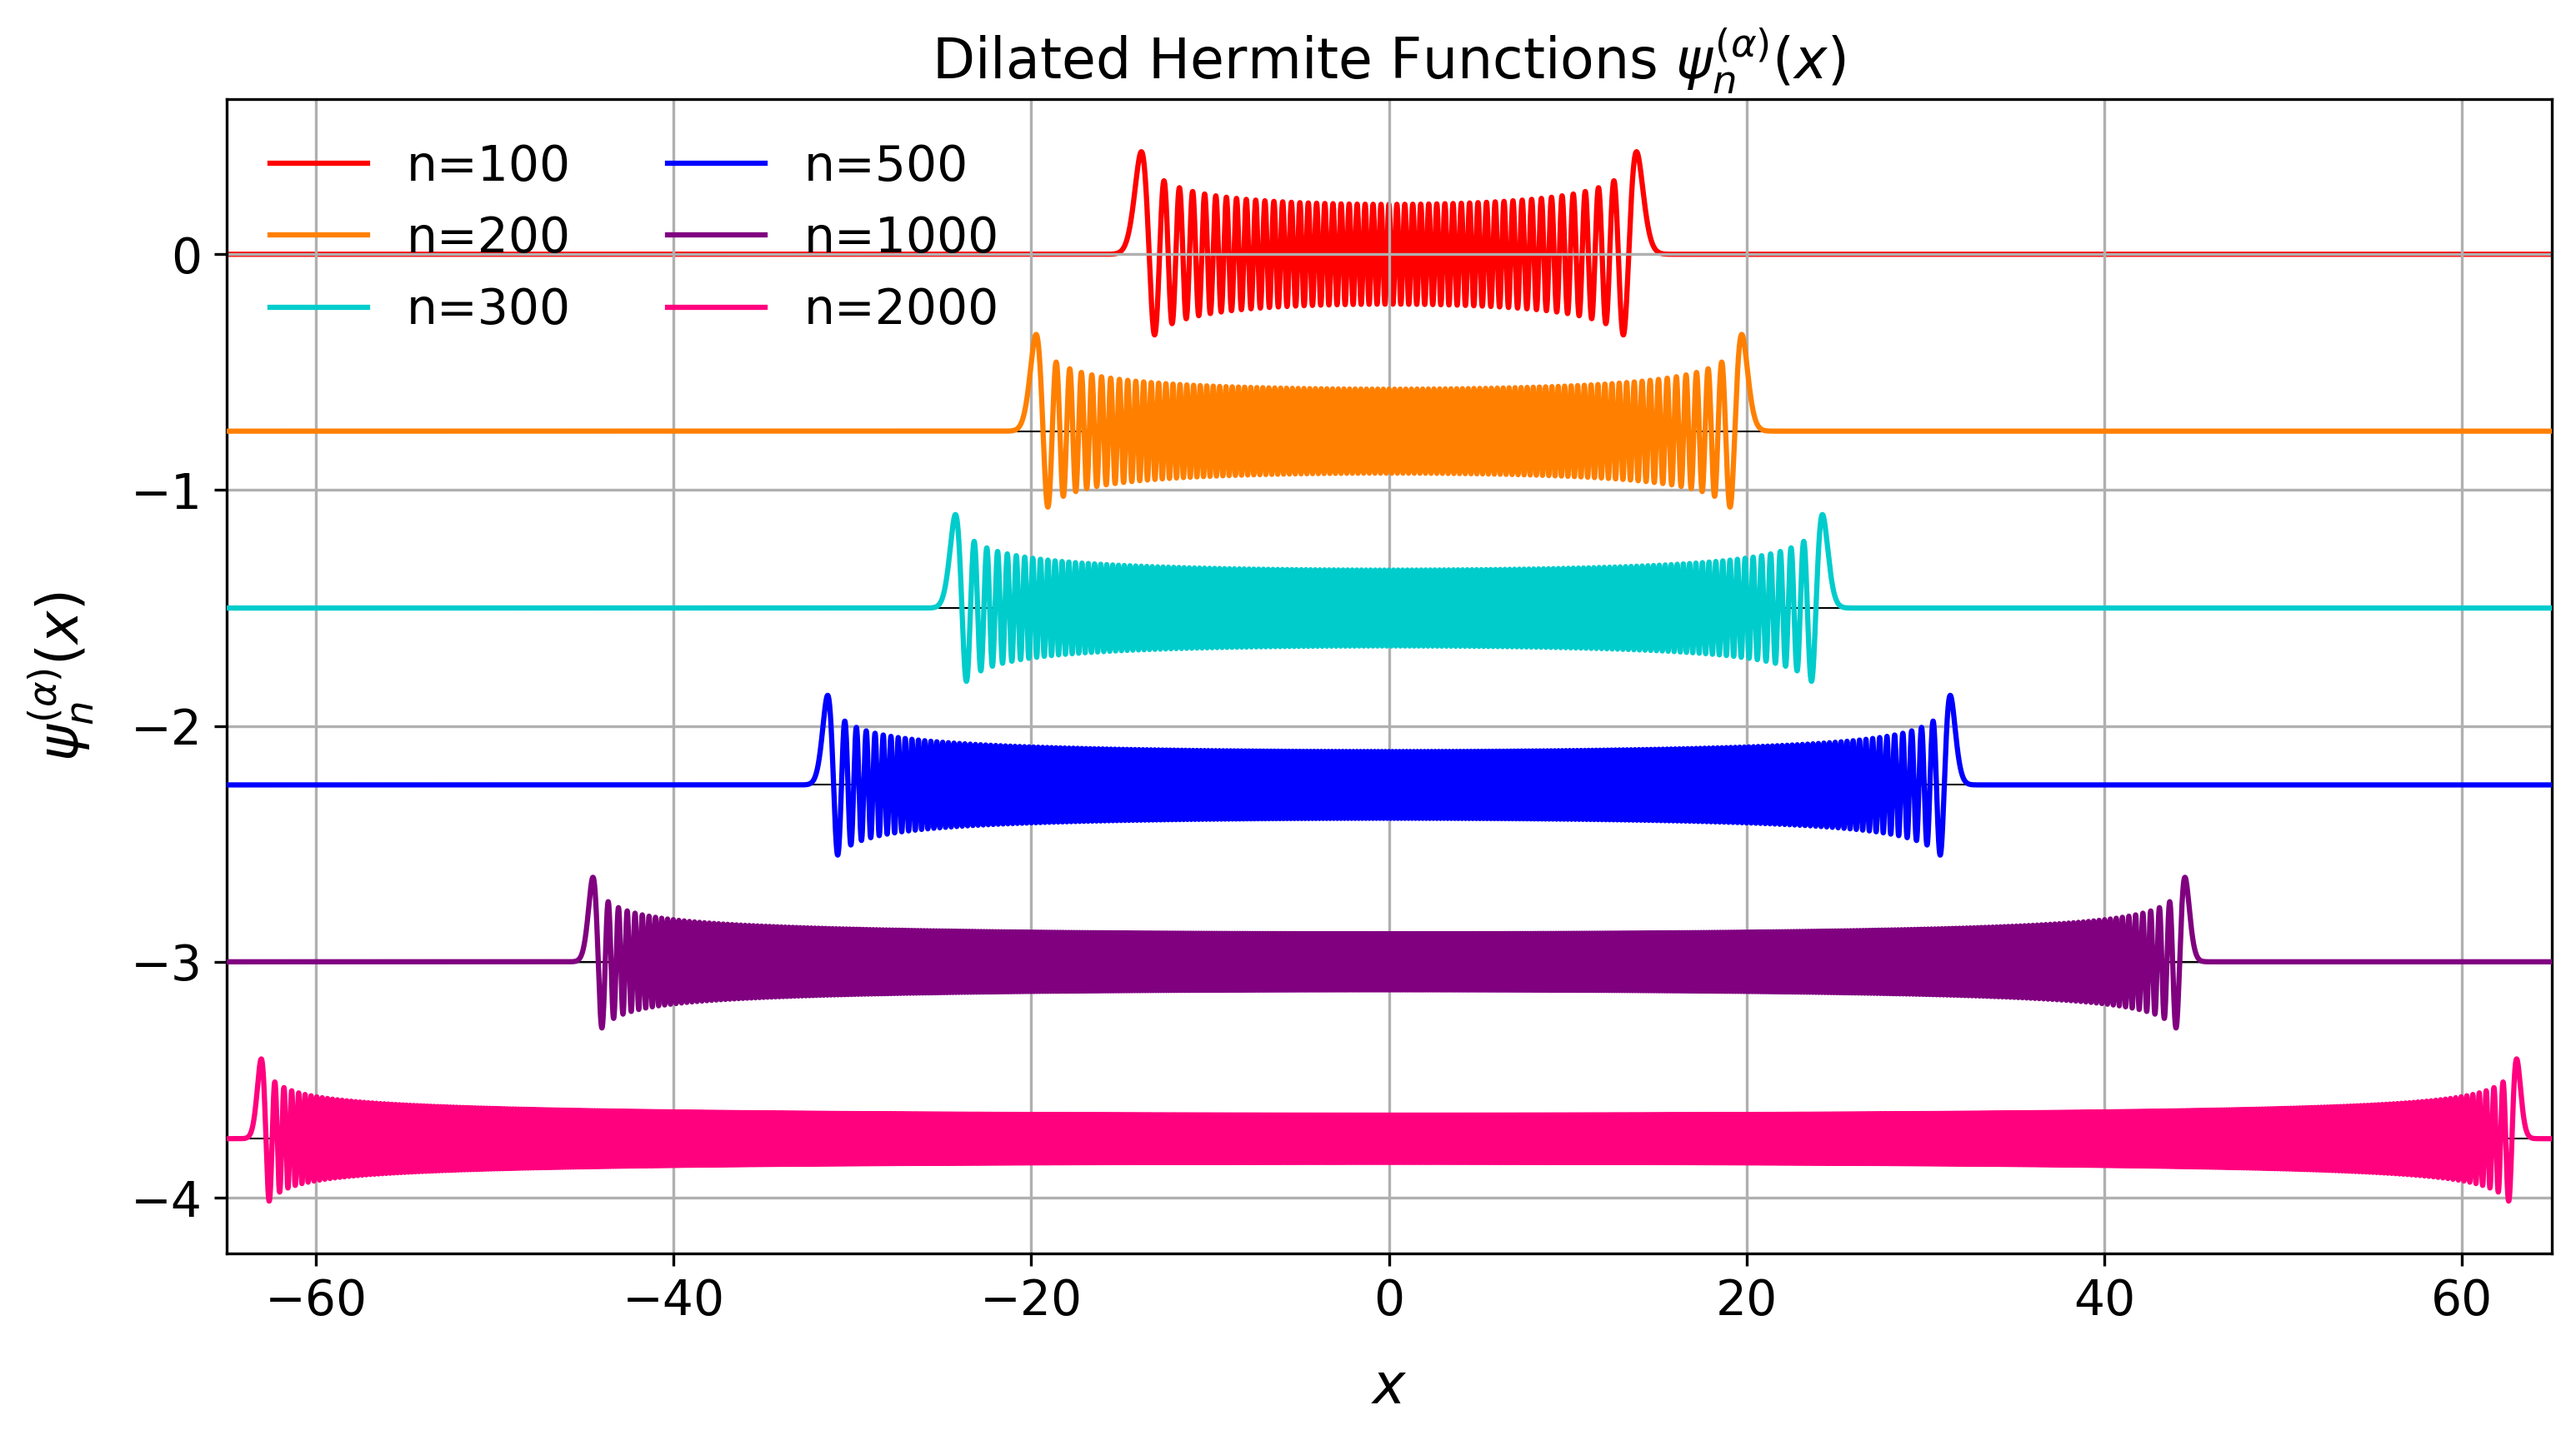
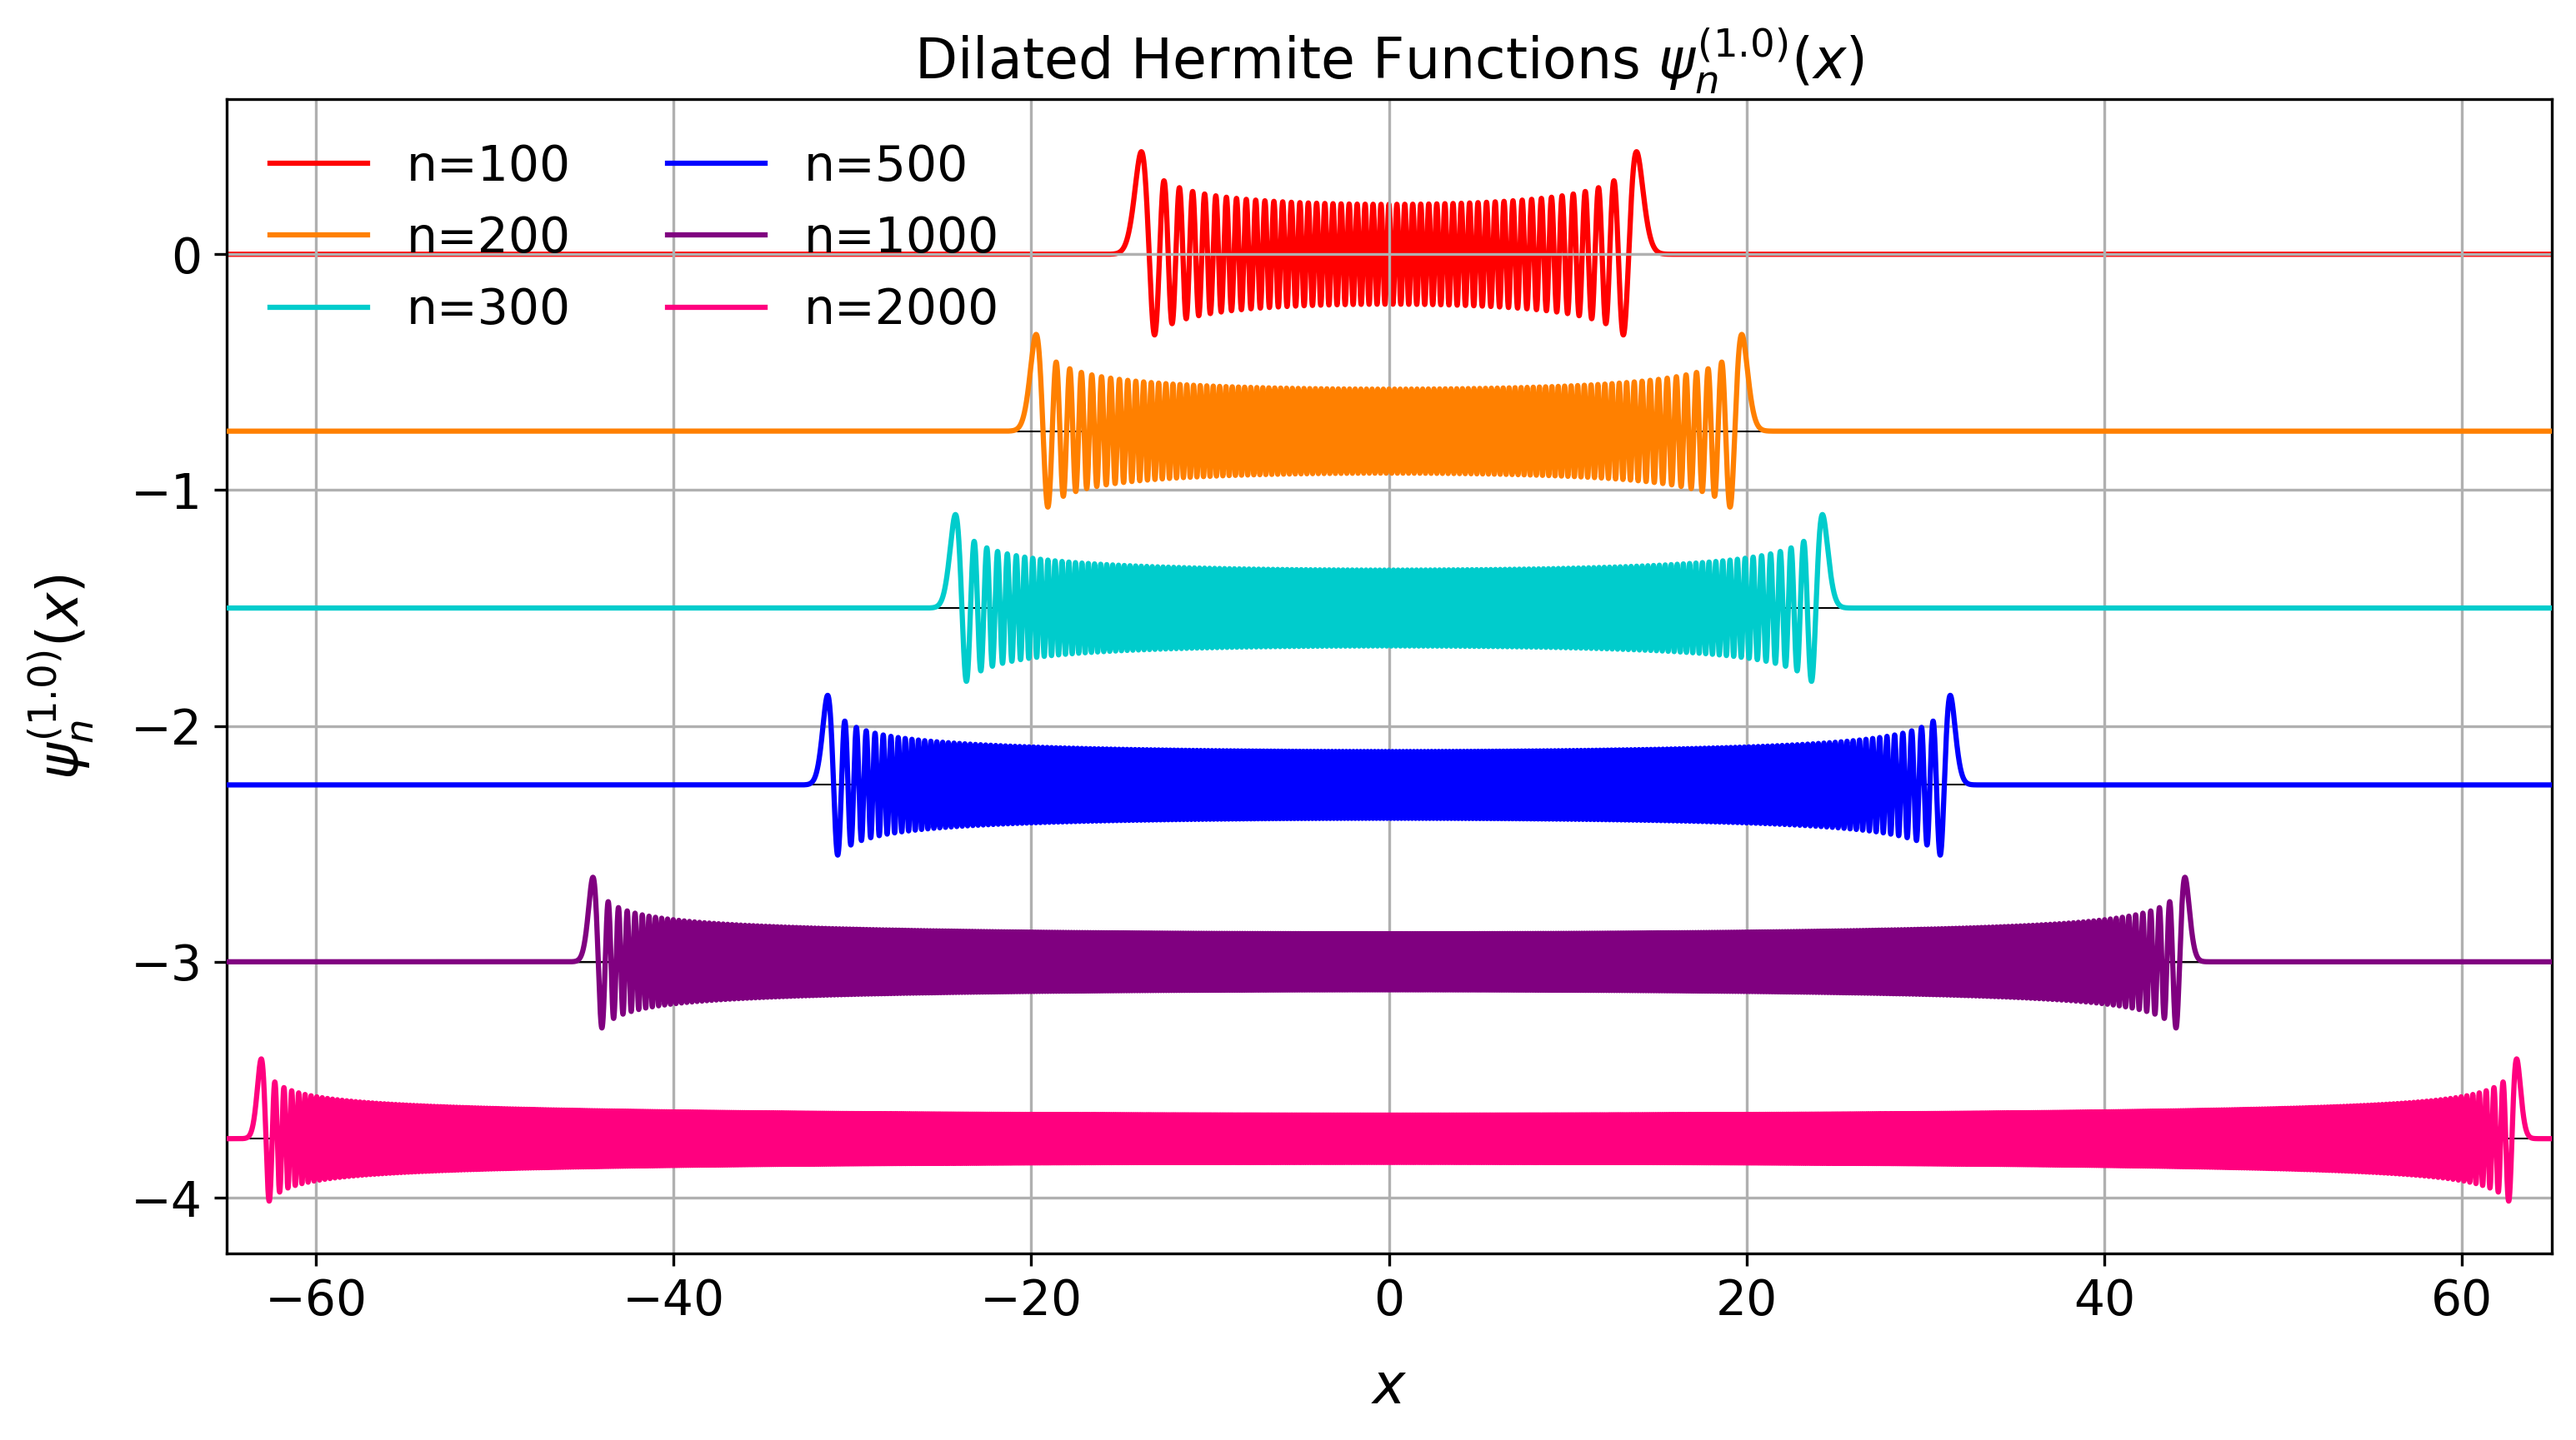
Issue 14 https://github.com/MothNik/robust_hermite_ft/issues/14 DOC: - updated example scripts and resulting plots with new definition of $\alpha$

Changed region(s): [[0.3416, 0.0, 0.7143, 0.0625], [0.0, 0.406, 0.0311, 0.5309]]

diff --git a/examples/02_hermite_function_stability.py b/examples/02_hermite_function_stability.py
@@ -70,8 +70,9 @@ if __name__ == "__main__":
         )
 
     # the title, grid, labels, and ticks are set
+    psi_label = r"$\psi_{n}^{\left(" + f"{ALPHA:.1f}" + r"\right)}\left(x\right)$"
     ax.set_title(
-        r"Dilated Hermite Functions $\psi_{n}^{\left(\alpha\right)}\left(x\right)$",
+        "Dilated Hermite Functions " + psi_label,
         fontsize=16,
     )
     ax.set_xlabel(
@@ -80,7 +81,7 @@ if __name__ == "__main__":
         labelpad=10,
     )
     ax.set_ylabel(
-        r"$\psi_{n}^{\left(\alpha\right)}\left(x\right)$",
+        psi_label,
         fontsize=16,
         labelpad=10,
     )

diff --git a/examples/01_hermite_functions.py b/examples/01_hermite_functions.py
@@ -20,7 +20,7 @@ X_TO = 5.0
 NUM_X = 10_001
 
 # the scaling factors alpha to use
-ALPHAS = [0.5, 1.0, 2.0]
+ALPHAS = [2.0, 1.0, 0.5]
 # the orders of the Hermite functions to plot
 ORDERS = 6
 # the offset between the individual Hermite functions
